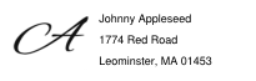
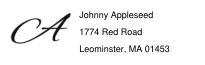
Added button rounding, hover events, and general polish

diff --git a/app.py b/app.py
@@ -1,18 +1,19 @@
 import tkinter as tk
-from tkinter import PhotoImage
+from tkinter import PhotoImage, filedialog
 import json
 from create_pdf import create_pdf
 from crop_pdf_to_single_label import create_single_label
 
 # Constants
-FONT_NAME = "Lato"
+FONT_NAME = "Candara"
 ENTRY_FONT = (FONT_NAME, 12)
 DEFAULT_IMAGE_PATH = "output/default_single_address_label.png"
+LOGO_PATH = "images/ll_small.png"
 SINGLE_LABEL_IMAGE_PATH = "output/single_address_label.png"
 DATA_FILE = "data/user_data.json"
 APP_TITLE = "Lovely Labels"
 APP_ICON = "images/ll_transparent.ico"
-APP_BG_COLOR = "#FEE6DE"
+APP_BG_COLOR = "#F4BFC3"
 PLACEHOLDERS = ["First", "Last", "Address", "City", "State", "Zip"]
 
 # Global variables
@@ -27,17 +28,32 @@ def init_ui():
     root.geometry("400x300")
     root.configure(bg=APP_BG_COLOR)
     root.bind("<Button-1>", on_background_click)
-
     setup_input_frame()
-    setup_default_image()
-
+    setup_label()
+    setup_logo()
+    setup_create_button()
     root.mainloop()
+
+
+def setup_logo():
+    logo_image = PhotoImage(file=LOGO_PATH)
+    logo_label = tk.Label(root, image=logo_image, bg=APP_BG_COLOR)
+    logo_label.place(relx=0.2, rely=0.2, anchor="center")
+    logo_label.image = logo_image
+
+
+def setup_label():
+    global image_label
+    image = PhotoImage(file=DEFAULT_IMAGE_PATH)
+    image_label = tk.Label(root, image=image, bg=APP_BG_COLOR)
+    image_label.place(relx=0.68, rely=0.23, anchor="center")
+    image_label.image = image
 
 
 def setup_input_frame():
     # Create a frame for the input fields
-    input_frame = tk.Frame(root, bg="#FEE6DE")
-    input_frame.place(relx=0.5, rely=0.4, anchor="n", relwidth=0.7, relheight=0.33)
+    input_frame = tk.Frame(root, bg="#F4BFC3")
+    input_frame.place(relx=0.5, rely=0.43, anchor="n", relwidth=0.7, relheight=0.33)
 
     # Configure grid columns in the frame
     for col in range(3):
@@ -60,13 +76,65 @@ def setup_input_frame():
         )
 
 
+def on_enter(canvas, button_id):
+    canvas.itemconfig(button_id, fill="#D35874")  # Darker shade of the original color
 
-def setup_default_image():
-    global image_label
-    image = PhotoImage(file=DEFAULT_IMAGE_PATH)
-    image_label = tk.Label(root, image=image, bg=APP_BG_COLOR)
-    image_label.place(relx=0.5, rely=0.2, anchor="center")
-    image_label.image = image
+def on_leave(canvas, button_id):
+    canvas.itemconfig(button_id, fill="#F06A85")  # Original color
+
+
+
+def create_rounded_rect(canvas, x1, y1, x2, y2, radius=25, **kwargs):
+    points = [
+        x1 + radius, y1,
+        x1 + radius, y1,
+        x2 - radius, y1,
+        x2 - radius, y1,
+        x2, y1,
+        x2, y1 + radius,
+        x2, y1 + radius,
+        x2, y2 - radius,
+        x2, y2 - radius,
+        x2, y2,
+        x2 - radius, y2,
+        x2 - radius, y2,
+        x1 + radius, y2,
+        x1 + radius, y2,
+        x1, y2,
+        x1, y2 - radius,
+        x1, y2 - radius,
+        x1, y1 + radius,
+        x1, y1 + radius,
+        x1, y1
+    ]
+    return canvas.create_polygon(points, **kwargs, smooth=True)
+
+
+def setup_create_button():
+    canvas = tk.Canvas(root, width=200, height=50, bg=APP_BG_COLOR, highlightthickness=0)
+    canvas.place(relx=0.5, rely=0.88, anchor="center")
+
+    # Draw a rounded rectangle and get its item ID
+    button_id = create_rounded_rect(canvas, 10, 10, 190, 40, radius=10, fill='#F06A85')
+
+    # Place text over the rectangle
+    canvas.create_text(100, 25, text="Create", font=(FONT_NAME, 14), fill="white")
+
+    # Create a transparent rectangle over the button for better event handling
+    canvas.create_rectangle(10, 10, 190, 40, outline="", fill="", tags="button_area")
+
+    # Binding the click event
+    def on_click(event):
+        create_label_sheet()  # Call your function here
+
+    canvas.tag_bind("button_area", "<Button-1>", on_click)
+
+    # Bind on_enter and on_leave functions to the transparent rectangle
+    canvas.tag_bind("button_area", "<Enter>", lambda event, b=button_id: on_enter(canvas, b))
+    canvas.tag_bind("button_area", "<Leave>", lambda event, b=button_id: on_leave(canvas, b))
+
+
+
 
 
 def create_entry(frame, placeholder, row, column, columnspan=1):
@@ -128,6 +196,15 @@ def update_image_label():
     image = PhotoImage(file=SINGLE_LABEL_IMAGE_PATH)
     image_label.config(image=image)
     image_label.image = image
+
+
+def create_label_sheet():
+    file_path = filedialog.asksaveasfilename(
+        defaultextension=".pdf", filetypes=[("PDF files", "*.pdf")]
+    )
+    if file_path:
+        # Call the function to create and save the label sheet
+        create_pdf(file_path)  # Assuming create_pdf accepts a file path argument
 
 
 # Run the application

diff --git a/crop_pdf_to_single_label.py b/crop_pdf_to_single_label.py
@@ -1,22 +1,30 @@
 import fitz
-from PIL import Image
-
+from PIL import Image, ImageDraw
 
 def create_single_label():
     pdf_file_path = "output/address_labels.pdf"
     output_file_path = "output/single_address_label.png"
+    corner_radius = 10  # radius of the rounded corners
     x1, y1, x2, y2 = 20, 330, 225, 395  # left, upper, right, lower
+
     pdf_document = fitz.open(pdf_file_path)
     page = pdf_document[0]
     pix = page.get_pixmap()
     image = Image.frombytes("RGB", (pix.width, pix.height), pix.samples)
     cropped_image = image.crop((x1, y1, x2, y2))
-    new_width = int(cropped_image.width * 1.25)
-    new_height = int(cropped_image.height * 1.25)
-    resized_image = cropped_image.resize((new_width, new_height), Image.BILINEAR)
-    resized_image.save(output_file_path, "PNG")
-    pdf_document.close()
 
+    # Create a mask for rounded corners
+    mask = Image.new("L", cropped_image.size, 0)
+    draw = ImageDraw.Draw(mask)
+    draw.rounded_rectangle([(0, 0), cropped_image.size], corner_radius, fill=255)
+
+    # Apply the rounded mask to the cropped image
+    rounded_image = Image.new("RGBA", cropped_image.size)
+    rounded_image.putalpha(mask)
+    cropped_image.putalpha(mask)
+
+    cropped_image.save(output_file_path, "PNG")
+    pdf_document.close()
 
 if __name__ == "__main__":
     create_single_label()

diff --git a/create_pdf.py b/create_pdf.py
@@ -256,7 +256,7 @@ class Image:
 
 
 def create_pdf():
-    DEBUG = False
+    DEBUG = True
     if DEBUG:
         data = json.load(open("data/default.json"))
 
